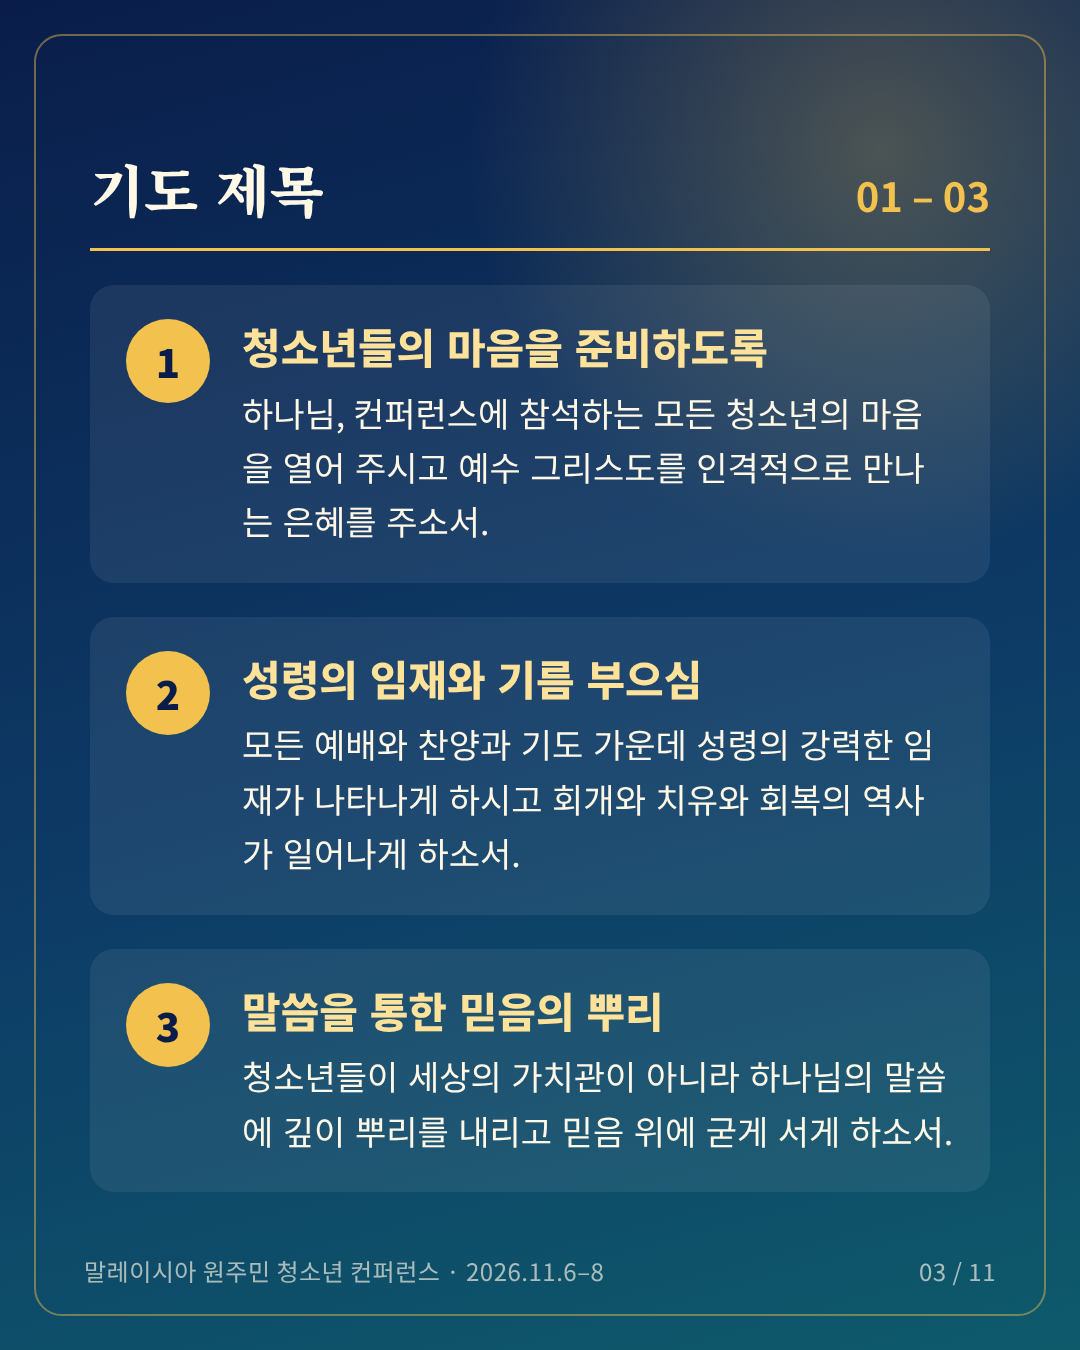
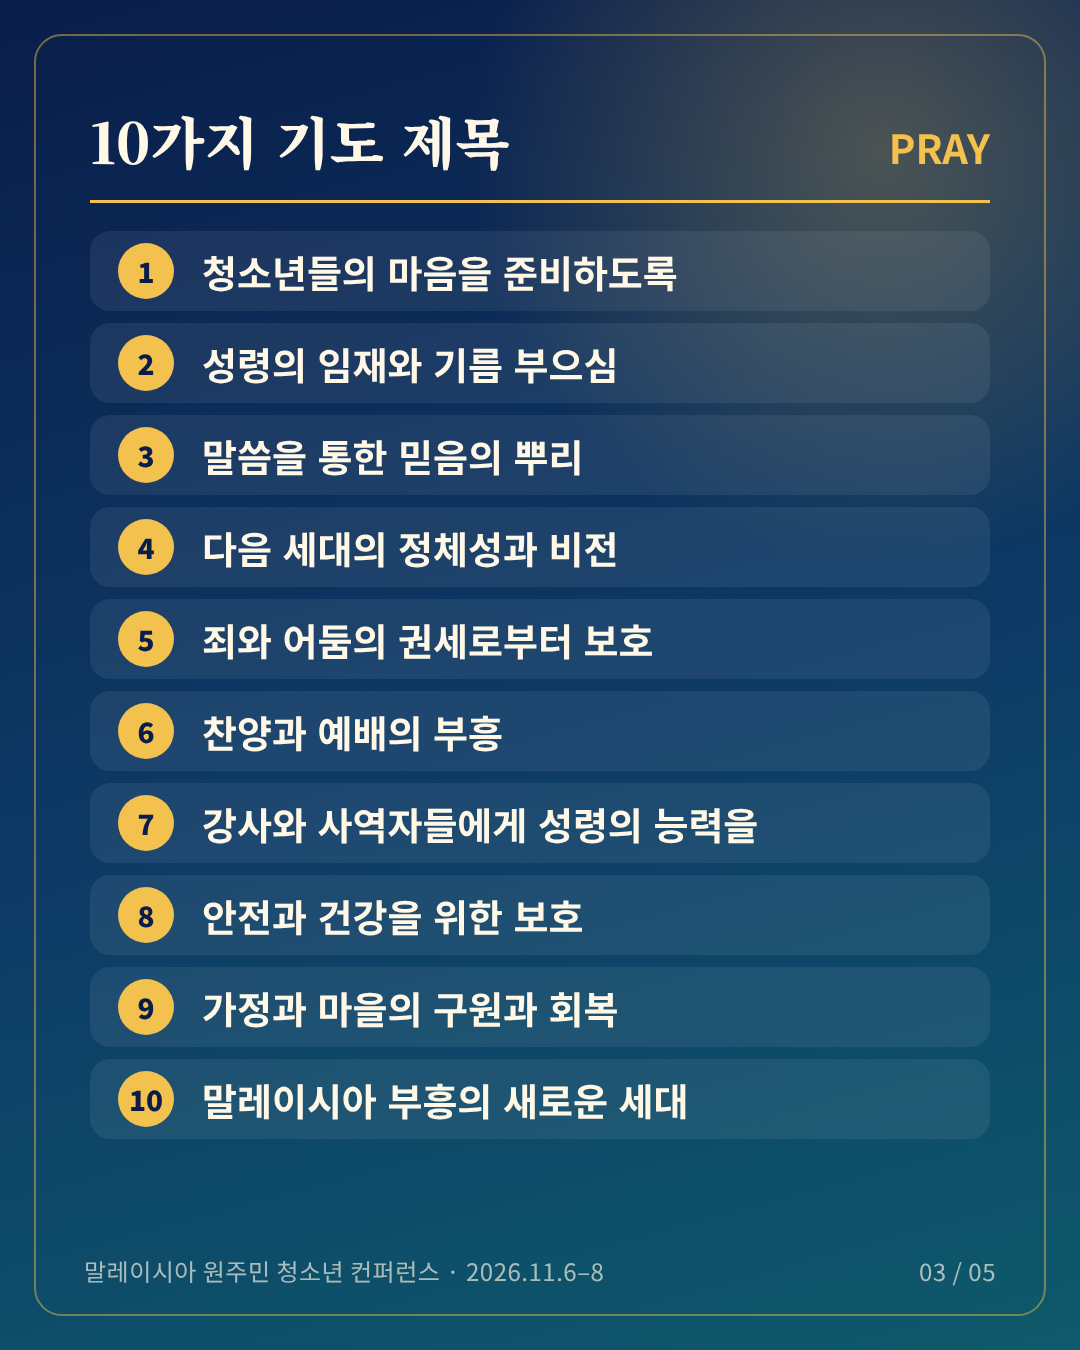
Reduce prayer card news to 5 cards
Claude-Session: https://claude.ai/code/session_01VtibxV4NqRSYxh7RdkETjb

Changed region(s): [[0.0917, 0.0622, 0.8861, 0.8711], [0.7944, 0.0933, 0.9167, 0.1867], [0.8861, 0.9333, 0.9167, 0.9644]]

diff --git a/cardnews/cards.html b/cardnews/cards.html
@@ -35,6 +35,9 @@ h1.mid{font-size:84px}
 .day{display:flex;gap:40px;align-items:center;background:rgba(255,255,255,.07);border-radius:28px;padding:44px 44px;position:relative;z-index:1}
 .d{font-family:Se;font-weight:900;font-size:80px;color:#f2c14e;min-width:190px}
 .day h3{font-size:42px;font-weight:800;line-height:1.35}.day p{font-size:36px;color:#ffe29a;margin-top:10px}
+.days{display:flex;flex-direction:column;gap:22px;position:relative;z-index:1}.two2 .day{padding:34px 40px}.two2 .verse{font-size:56px}
+.rows{display:flex;flex-direction:column;gap:12px;position:relative;z-index:1}.row{display:flex;align-items:center;gap:28px;background:rgba(255,255,255,.07);border-radius:20px;padding:12px 28px}.num.sm{width:56px;height:56px;font-size:28px}.rt{font-size:38px;font-weight:700;color:#fff8e7}
+.list{justify-content:flex-start;padding-top:100px;gap:28px}
 </style><body><section class="card cover"><div class="glow"></div><div class="center"><div class="pill">PRAYER CARD NEWS</div>
 <div class="small">말레이시아 원주민 마을</div><h1>청소년 컨퍼런스를<br>위한 기도</h1>
 <div class="brush">그리스도 안에 뿌리를 내리고<br>믿음 위에 세움을 받으라</div>
@@ -44,44 +47,24 @@ h1.mid{font-size:84px}
 <path d="M540 140 C610 170 700 200 760 260 C800 300 840 330 900 350" stroke-width="9"/>
 <path d="M540 200 C560 250 600 290 640 350" stroke-width="7"/>
 <path d="M330 250 C300 280 300 310 270 350" stroke-width="5"/><path d="M760 260 C790 290 780 320 810 350" stroke-width="5"/></g></svg>
-  <div class="foot"><span>말레이시아 원주민 청소년 컨퍼런스 · 2026.11.6–8</span><span>01 / 11</span></div></section><section class="card verse"><div class="glow"></div><div class="center"><div class="label">주제 말씀 · 골로새서 2:7</div>
-<div class="quote">“</div><p class="verse">그 안에 뿌리를 박으며<br>세움을 받아 교훈을 받은 대로<br><b>믿음에 굳게 서서</b><br>감사함을 넘치게 하라.</p>
-<div class="ref">Colossians 2:7</div></div><svg class="roots" viewBox="0 0 1080 360" preserveAspectRatio="none"><g fill="none" stroke="#f2c14e" stroke-linecap="round" opacity=".35">
-<path d="M540 0 C540 80 540 140 540 200 C540 260 520 300 470 340" stroke-width="14"/>
-<path d="M540 120 C480 160 400 190 330 250 C290 285 250 320 200 350" stroke-width="9"/>
-<path d="M540 140 C610 170 700 200 760 260 C800 300 840 330 900 350" stroke-width="9"/>
-<path d="M540 200 C560 250 600 290 640 350" stroke-width="7"/>
-<path d="M330 250 C300 280 300 310 270 350" stroke-width="5"/><path d="M760 260 C790 290 780 320 810 350" stroke-width="5"/></g></svg>
-  <div class="foot"><span>말레이시아 원주민 청소년 컨퍼런스 · 2026.11.6–8</span><span>02 / 11</span></div></section><section class="card "><div class="glow"></div><div class="head"><span>기도 제목</span><b>01 – 03</b></div><div class="pr"><div class="num">1</div><div><h3>청소년들의 마음을 준비하도록</h3><p>하나님, 컨퍼런스에 참석하는 모든 청소년의 마음을 열어 주시고 예수 그리스도를 인격적으로 만나는 은혜를 주소서.</p></div></div><div class="pr"><div class="num">2</div><div><h3>성령의 임재와 기름 부으심</h3><p>모든 예배와 찬양과 기도 가운데 성령의 강력한 임재가 나타나게 하시고 회개와 치유와 회복의 역사가 일어나게 하소서.</p></div></div><div class="pr"><div class="num">3</div><div><h3>말씀을 통한 믿음의 뿌리</h3><p>청소년들이 세상의 가치관이 아니라 하나님의 말씀에 깊이 뿌리를 내리고 믿음 위에 굳게 서게 하소서.</p></div></div>
-  <div class="foot"><span>말레이시아 원주민 청소년 컨퍼런스 · 2026.11.6–8</span><span>03 / 11</span></div></section><section class="card "><div class="glow"></div><div class="head"><span>기도 제목</span><b>04 – 06</b></div><div class="pr"><div class="num">4</div><div><h3>다음 세대의 정체성과 비전</h3><p>청소년들이 하나님의 사랑받는 자녀임을 깨닫고 자신을 향한 하나님의 부르심과 사명을 발견하게 하소서.</p></div></div><div class="pr"><div class="num">5</div><div><h3>죄와 어둠의 권세로부터 보호</h3><p>술, 마약, 음란, 폭력, 우상숭배와 모든 세상의 유혹으로부터 청소년들을 보호하시고 거룩한 세대로 세워 주소서.</p></div></div><div class="pr"><div class="num">6</div><div><h3>찬양과 예배의 부흥</h3><p>청소년들의 입술에 찬양이 넘치게 하시고, 원주민 마을마다 예배의 불이 타오르게 하소서.</p></div></div>
-  <div class="foot"><span>말레이시아 원주민 청소년 컨퍼런스 · 2026.11.6–8</span><span>04 / 11</span></div></section><section class="card two"><div class="glow"></div><div class="head"><span>기도 제목</span><b>07 – 08</b></div><div class="pr"><div class="num">7</div><div><h3>강사와 사역자들에게 성령의 능력을</h3><p>말씀을 전하는 강사와 선교사와 목회자들에게 성령의 기름 부으심을 더하시고, 하나님의 말씀과 사랑으로 청소년들을 섬기게 하소서.</p></div></div><div class="pr"><div class="num">8</div><div><h3>안전과 건강을 위한 보호</h3><p>11월 6일부터 8일까지 이동과 숙박과 모든 프로그램 가운데 안전을 지켜 주시고 사고와 질병으로부터 보호하소서.</p></div></div>
-  <div class="foot"><span>말레이시아 원주민 청소년 컨퍼런스 · 2026.11.6–8</span><span>05 / 11</span></div></section><section class="card two"><div class="glow"></div><div class="head"><span>기도 제목</span><b>09 – 10</b></div><div class="pr"><div class="num">9</div><div><h3>가정과 마을의 구원과 회복</h3><p>이번 컨퍼런스가 청소년들만의 은혜로 끝나지 않게 하시고 부모와 형제자매와 마을 전체가 복음을 듣고 구원받게 하소서.</p></div></div><div class="pr"><div class="num">10</div><div><h3>말레이시아 부흥의 새로운 세대</h3><p>원주민 청소년들이 기도하는 자, 예배하는 자, 전도하는 자, 선교하는 자로 일어나 말레이시아와 열방의 부흥을 이끄는 세대가 되게 하소서.</p></div></div>
-  <div class="foot"><span>말레이시아 원주민 청소년 컨퍼런스 · 2026.11.6–8</span><span>06 / 11</span></div></section><section class="card "><div class="glow"></div><div class="head"><span>특별 중보기도문</span><b>1</b></div><h2 class="sub">원주민 마을에서 시작되는<br>다음 세대의 부흥</h2>
-<p class="body"><b>사랑과 은혜가 풍성하신 하나님 아버지!</b> 11월 6일부터 8일까지 말레이시아 원주민 마을에서 열리는 청소년 컨퍼런스를 주님의 손에 올려드립니다.</p>
-<p class="body">이번 컨퍼런스가 단순한 행사가 아니라 하나님의 임재를 경험하고 인생이 변화되는 <b>거룩한 만남의 자리</b>가 되게 하소서.</p>
-<p class="body">참석하는 모든 청소년의 마음을 열어 주시고, 예수 그리스도를 구주와 주님으로 영접하게 하소서. 골로새서 2장 7절의 말씀처럼 그리스도 안에 깊이 뿌리를 내리고 믿음 위에 굳게 서게 하소서.</p>
-  <div class="foot"><span>말레이시아 원주민 청소년 컨퍼런스 · 2026.11.6–8</span><span>07 / 11</span></div></section><section class="card "><div class="glow"></div><div class="head"><span>특별 중보기도문</span><b>2</b></div>
-<p class="body">성령 하나님, 모든 찬양과 예배와 말씀과 기도 가운데 역사하여 주옵소서. 상처받은 마음을 치유하시고, 절망 가운데 있는 청소년들에게 <b>새로운 꿈과 비전</b>을 허락하여 주옵소서.</p>
-<p class="body">특별히 원주민 마을의 다음 세대를 일으켜 주옵소서. 이들이 더 이상 세상의 유혹과 어둠에 머물지 않고 하나님의 영광을 나타내는 세대가 되게 하소서.</p>
-<p class="body">섬기는 모든 강사와 목회자와 선교사와 봉사자들에게 성령의 충만함과 하나님의 사랑을 더하여 주시고, 모든 이동과 일정과 숙박과 식사를 지켜 주옵소서.</p>
-<p class="body">이번 컨퍼런스를 통해 마을마다 <b>기도의 불</b>이 타오르고, <b>예배의 제단</b>이 세워지며, 말레이시아 부흥의 새로운 역사가 시작되게 하소서.</p>
-<p class="amen">예수 그리스도의 이름으로 기도드립니다. 아멘!</p>
-  <div class="foot"><span>말레이시아 원주민 청소년 컨퍼런스 · 2026.11.6–8</span><span>08 / 11</span></div></section><section class="card days"><div class="glow"></div><div class="head"><span>3일간의 영적 선포</span><b>3 DAYS</b></div>
+  <div class="foot"><span>말레이시아 원주민 청소년 컨퍼런스 · 2026.11.6–8</span><span>01 / 05</span></div></section><section class="card two2"><div class="glow"></div><div class="center"><div class="label">주제 말씀 · 골로새서 2:7</div>
+<p class="verse">“그 안에 뿌리를 박으며 세움을 받아<br>교훈을 받은 대로 <b>믿음에 굳게 서서</b><br>감사함을 넘치게 하라.”</p></div>
+<div class="days">
 <div class="day"><div class="d">11.6</div><div><h3>예수님을 만나는 날</h3><p>요한복음 3:3</p></div></div>
 <div class="day"><div class="d">11.7</div><div><h3>믿음에 뿌리를 내리는 날</h3><p>골로새서 2:7</p></div></div>
-<div class="day"><div class="d">11.8</div><div><h3>부르심과 사명으로 일어나는 날</h3><p>이사야 6:8</p></div></div>
-  <div class="foot"><span>말레이시아 원주민 청소년 컨퍼런스 · 2026.11.6–8</span><span>09 / 11</span></div></section><section class="card verse"><div class="glow"></div><div class="center"><div class="brush big">원주민 마을마다<br>기도의 불이 타오르게 하소서</div>
-<p class="body c">원주민 청소년들이 기도하는 자, 예배하는 자, 전도하는 자, 선교하는 자로 일어나 말레이시아와 열방의 부흥을 이끄는 세대가 되게 하소서.</p></div><svg class="roots" viewBox="0 0 1080 360" preserveAspectRatio="none"><g fill="none" stroke="#f2c14e" stroke-linecap="round" opacity=".35">
+<div class="day"><div class="d">11.8</div><div><h3>부르심과 사명으로 일어나는 날</h3><p>이사야 6:8</p></div></div></div>
+  <div class="foot"><span>말레이시아 원주민 청소년 컨퍼런스 · 2026.11.6–8</span><span>02 / 05</span></div></section><section class="card list"><div class="glow"></div><div class="head"><span>10가지 기도 제목</span><b>PRAY</b></div><div class="rows"><div class="row"><div class="num sm">1</div><div class="rt">청소년들의 마음을 준비하도록</div></div><div class="row"><div class="num sm">2</div><div class="rt">성령의 임재와 기름 부으심</div></div><div class="row"><div class="num sm">3</div><div class="rt">말씀을 통한 믿음의 뿌리</div></div><div class="row"><div class="num sm">4</div><div class="rt">다음 세대의 정체성과 비전</div></div><div class="row"><div class="num sm">5</div><div class="rt">죄와 어둠의 권세로부터 보호</div></div><div class="row"><div class="num sm">6</div><div class="rt">찬양과 예배의 부흥</div></div><div class="row"><div class="num sm">7</div><div class="rt">강사와 사역자들에게 성령의 능력을</div></div><div class="row"><div class="num sm">8</div><div class="rt">안전과 건강을 위한 보호</div></div><div class="row"><div class="num sm">9</div><div class="rt">가정과 마을의 구원과 회복</div></div><div class="row"><div class="num sm">10</div><div class="rt">말레이시아 부흥의 새로운 세대</div></div></div>
+  <div class="foot"><span>말레이시아 원주민 청소년 컨퍼런스 · 2026.11.6–8</span><span>03 / 05</span></div></section><section class="card "><div class="glow"></div><div class="head"><span>특별 중보기도문</span><b>다음 세대의 부흥</b></div>
+<p class="body"><b>사랑과 은혜가 풍성하신 하나님 아버지!</b> 이번 컨퍼런스가 단순한 행사가 아니라 하나님의 임재를 경험하고 인생이 변화되는 <b>거룩한 만남의 자리</b>가 되게 하소서.</p>
+<p class="body">모든 청소년이 예수 그리스도를 구주와 주님으로 영접하고, 그리스도 안에 깊이 뿌리를 내려 믿음 위에 굳게 서게 하소서.</p>
+<p class="body">원주민 마을마다 <b>기도의 불</b>이 타오르고, <b>예배의 제단</b>이 세워지며, 말레이시아 부흥의 새로운 역사가 시작되게 하소서.</p>
+<p class="amen">예수 그리스도의 이름으로 기도드립니다. 아멘!</p>
+  <div class="foot"><span>말레이시아 원주민 청소년 컨퍼런스 · 2026.11.6–8</span><span>04 / 05</span></div></section><section class="card cover"><div class="glow"></div><div class="center"><div class="brush big">원주민 마을마다<br>기도의 불이 타오르게 하소서</div>
+<div class="pill">함께 기도해 주세요</div>
+<p class="body c">11월 6일 – 8일, 3일간의 은혜의 자리를 위해<br>이 카드를 나누고 기도에 동참해 주세요.</p></div><svg class="roots" viewBox="0 0 1080 360" preserveAspectRatio="none"><g fill="none" stroke="#f2c14e" stroke-linecap="round" opacity=".35">
 <path d="M540 0 C540 80 540 140 540 200 C540 260 520 300 470 340" stroke-width="14"/>
 <path d="M540 120 C480 160 400 190 330 250 C290 285 250 320 200 350" stroke-width="9"/>
 <path d="M540 140 C610 170 700 200 760 260 C800 300 840 330 900 350" stroke-width="9"/>
 <path d="M540 200 C560 250 600 290 640 350" stroke-width="7"/>
 <path d="M330 250 C300 280 300 310 270 350" stroke-width="5"/><path d="M760 260 C790 290 780 320 810 350" stroke-width="5"/></g></svg>
-  <div class="foot"><span>말레이시아 원주민 청소년 컨퍼런스 · 2026.11.6–8</span><span>10 / 11</span></div></section><section class="card cover"><div class="glow"></div><div class="center"><div class="pill">함께 기도해 주세요</div><h1 class="mid">11월 6일 – 8일<br>3일간의 은혜의 자리</h1>
-<p class="body c">이 카드를 나누고<br>한 사람이라도 더 기도에 동참하게 해 주세요.</p><div class="brush">예수 그리스도의 이름으로 기도드립니다. 아멘!</div></div><svg class="roots" viewBox="0 0 1080 360" preserveAspectRatio="none"><g fill="none" stroke="#f2c14e" stroke-linecap="round" opacity=".35">
-<path d="M540 0 C540 80 540 140 540 200 C540 260 520 300 470 340" stroke-width="14"/>
-<path d="M540 120 C480 160 400 190 330 250 C290 285 250 320 200 350" stroke-width="9"/>
-<path d="M540 140 C610 170 700 200 760 260 C800 300 840 330 900 350" stroke-width="9"/>
-<path d="M540 200 C560 250 600 290 640 350" stroke-width="7"/>
-<path d="M330 250 C300 280 300 310 270 350" stroke-width="5"/><path d="M760 260 C790 290 780 320 810 350" stroke-width="5"/></g></svg>
-  <div class="foot"><span>말레이시아 원주민 청소년 컨퍼런스 · 2026.11.6–8</span><span>11 / 11</span></div></section>
+  <div class="foot"><span>말레이시아 원주민 청소년 컨퍼런스 · 2026.11.6–8</span><span>05 / 05</span></div></section>

diff --git a/cardnews/build.js b/cardnews/build.js
@@ -24,37 +24,28 @@ const prayers = [
   ['10', '말레이시아 부흥의 새로운 세대', '원주민 청소년들이 기도하는 자, 예배하는 자, 전도하는 자, 선교하는 자로 일어나 말레이시아와 열방의 부흥을 이끄는 세대가 되게 하소서.'],
 ];
 const group = (a, b) => prayers.slice(a, b).map(([n, t, x]) => `<div class="pr"><div class="num">${n}</div><div><h3>${t}</h3><p>${x}</p></div></div>`).join('');
-const T = 11;
+const T = 5;
+const short = prayers.map(([n,t])=>`<div class="row"><div class="num sm">${n}</div><div class="rt">${t}</div></div>`).join('');
 const cards = [
   card(1, T, `<div class="center"><div class="pill">PRAYER CARD NEWS</div>
 <div class="small">말레이시아 원주민 마을</div><h1>청소년 컨퍼런스를<br>위한 기도</h1>
 <div class="brush">그리스도 안에 뿌리를 내리고<br>믿음 위에 세움을 받으라</div>
 <div class="date">2026년 11월 6일 – 8일</div></div>${roots}`, 'cover'),
   card(2, T, `<div class="center"><div class="label">주제 말씀 · 골로새서 2:7</div>
-<div class="quote">“</div><p class="verse">그 안에 뿌리를 박으며<br>세움을 받아 교훈을 받은 대로<br><b>믿음에 굳게 서서</b><br>감사함을 넘치게 하라.</p>
-<div class="ref">Colossians 2:7</div></div>${roots}`, 'verse'),
-  card(3, T, `<div class="head"><span>기도 제목</span><b>01 – 03</b></div>${group(0, 3)}`),
-  card(4, T, `<div class="head"><span>기도 제목</span><b>04 – 06</b></div>${group(3, 6)}`),
-  card(5, T, `<div class="head"><span>기도 제목</span><b>07 – 08</b></div>${group(6, 8)}`, 'two'),
-  card(6, T, `<div class="head"><span>기도 제목</span><b>09 – 10</b></div>${group(8, 10)}`, 'two'),
-  card(7, T, `<div class="head"><span>특별 중보기도문</span><b>1</b></div><h2 class="sub">원주민 마을에서 시작되는<br>다음 세대의 부흥</h2>
-<p class="body"><b>사랑과 은혜가 풍성하신 하나님 아버지!</b> 11월 6일부터 8일까지 말레이시아 원주민 마을에서 열리는 청소년 컨퍼런스를 주님의 손에 올려드립니다.</p>
-<p class="body">이번 컨퍼런스가 단순한 행사가 아니라 하나님의 임재를 경험하고 인생이 변화되는 <b>거룩한 만남의 자리</b>가 되게 하소서.</p>
-<p class="body">참석하는 모든 청소년의 마음을 열어 주시고, 예수 그리스도를 구주와 주님으로 영접하게 하소서. 골로새서 2장 7절의 말씀처럼 그리스도 안에 깊이 뿌리를 내리고 믿음 위에 굳게 서게 하소서.</p>`),
-  card(8, T, `<div class="head"><span>특별 중보기도문</span><b>2</b></div>
-<p class="body">성령 하나님, 모든 찬양과 예배와 말씀과 기도 가운데 역사하여 주옵소서. 상처받은 마음을 치유하시고, 절망 가운데 있는 청소년들에게 <b>새로운 꿈과 비전</b>을 허락하여 주옵소서.</p>
-<p class="body">특별히 원주민 마을의 다음 세대를 일으켜 주옵소서. 이들이 더 이상 세상의 유혹과 어둠에 머물지 않고 하나님의 영광을 나타내는 세대가 되게 하소서.</p>
-<p class="body">섬기는 모든 강사와 목회자와 선교사와 봉사자들에게 성령의 충만함과 하나님의 사랑을 더하여 주시고, 모든 이동과 일정과 숙박과 식사를 지켜 주옵소서.</p>
-<p class="body">이번 컨퍼런스를 통해 마을마다 <b>기도의 불</b>이 타오르고, <b>예배의 제단</b>이 세워지며, 말레이시아 부흥의 새로운 역사가 시작되게 하소서.</p>
-<p class="amen">예수 그리스도의 이름으로 기도드립니다. 아멘!</p>`),
-  card(9, T, `<div class="head"><span>3일간의 영적 선포</span><b>3 DAYS</b></div>
+<p class="verse">“그 안에 뿌리를 박으며 세움을 받아<br>교훈을 받은 대로 <b>믿음에 굳게 서서</b><br>감사함을 넘치게 하라.”</p></div>
+<div class="days">
 <div class="day"><div class="d">11.6</div><div><h3>예수님을 만나는 날</h3><p>요한복음 3:3</p></div></div>
 <div class="day"><div class="d">11.7</div><div><h3>믿음에 뿌리를 내리는 날</h3><p>골로새서 2:7</p></div></div>
-<div class="day"><div class="d">11.8</div><div><h3>부르심과 사명으로 일어나는 날</h3><p>이사야 6:8</p></div></div>`, 'days'),
-  card(10, T, `<div class="center"><div class="brush big">원주민 마을마다<br>기도의 불이 타오르게 하소서</div>
-<p class="body c">원주민 청소년들이 기도하는 자, 예배하는 자, 전도하는 자, 선교하는 자로 일어나 말레이시아와 열방의 부흥을 이끄는 세대가 되게 하소서.</p></div>${roots}`, 'verse'),
-  card(11, T, `<div class="center"><div class="pill">함께 기도해 주세요</div><h1 class="mid">11월 6일 – 8일<br>3일간의 은혜의 자리</h1>
-<p class="body c">이 카드를 나누고<br>한 사람이라도 더 기도에 동참하게 해 주세요.</p><div class="brush">예수 그리스도의 이름으로 기도드립니다. 아멘!</div></div>${roots}`, 'cover'),
+<div class="day"><div class="d">11.8</div><div><h3>부르심과 사명으로 일어나는 날</h3><p>이사야 6:8</p></div></div></div>`, 'two2'),
+  card(3, T, `<div class="head"><span>10가지 기도 제목</span><b>PRAY</b></div><div class="rows">${short}</div>`, 'list'),
+  card(4, T, `<div class="head"><span>특별 중보기도문</span><b>다음 세대의 부흥</b></div>
+<p class="body"><b>사랑과 은혜가 풍성하신 하나님 아버지!</b> 이번 컨퍼런스가 단순한 행사가 아니라 하나님의 임재를 경험하고 인생이 변화되는 <b>거룩한 만남의 자리</b>가 되게 하소서.</p>
+<p class="body">모든 청소년이 예수 그리스도를 구주와 주님으로 영접하고, 그리스도 안에 깊이 뿌리를 내려 믿음 위에 굳게 서게 하소서.</p>
+<p class="body">원주민 마을마다 <b>기도의 불</b>이 타오르고, <b>예배의 제단</b>이 세워지며, 말레이시아 부흥의 새로운 역사가 시작되게 하소서.</p>
+<p class="amen">예수 그리스도의 이름으로 기도드립니다. 아멘!</p>`),
+  card(5, T, `<div class="center"><div class="brush big">원주민 마을마다<br>기도의 불이 타오르게 하소서</div>
+<div class="pill">함께 기도해 주세요</div>
+<p class="body c">11월 6일 – 8일, 3일간의 은혜의 자리를 위해<br>이 카드를 나누고 기도에 동참해 주세요.</p></div>${roots}`, 'cover'),
 ];
 const html = `<!doctype html><meta charset="utf-8"><style>
 @font-face{font-family:S;src:url(NotoSansKR.ttf);font-weight:100 900}
@@ -93,6 +84,9 @@ h1.mid{font-size:84px}
 .day{display:flex;gap:40px;align-items:center;background:rgba(255,255,255,.07);border-radius:28px;padding:44px 44px;position:relative;z-index:1}
 .d{font-family:Se;font-weight:900;font-size:80px;color:#f2c14e;min-width:190px}
 .day h3{font-size:42px;font-weight:800;line-height:1.35}.day p{font-size:36px;color:#ffe29a;margin-top:10px}
+.days{display:flex;flex-direction:column;gap:22px;position:relative;z-index:1}.two2 .day{padding:34px 40px}.two2 .verse{font-size:56px}
+.rows{display:flex;flex-direction:column;gap:12px;position:relative;z-index:1}.row{display:flex;align-items:center;gap:28px;background:rgba(255,255,255,.07);border-radius:20px;padding:12px 28px}.num.sm{width:56px;height:56px;font-size:28px}.rt{font-size:38px;font-weight:700;color:#fff8e7}
+.list{justify-content:flex-start;padding-top:100px;gap:28px}
 </style><body>${cards.join('')}`;
 fs.writeFileSync('cards.html', html);
 (async () => {
